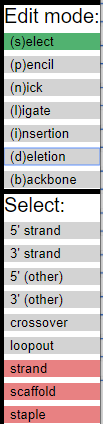
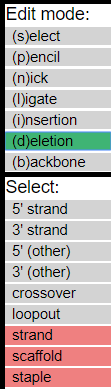
fixed errors in tutorial

diff --git a/tutorial/tutorial.md b/tutorial/tutorial.md
@@ -1,10 +1,10 @@
 # scadnano web interface tutorial
 
-The goal of this tutorial will be to create a design for a 24-helix DNA origami rectangle, with "twist correction". It will look like this when we are done:
+The goal of this tutorial will be to create a design for a 24-helix DNA origami rectangle, with "twist correction". (See [this paper](https://www.nature.com/articles/nchem.1070) for an explanation of twist correction in 2D DNA origami) The design will look like this when we are done:
 
 ![](images/full_design.png)
 
-The completed design is available as a [`.dna` file](https://github.com/UC-Davis-molecular-computing/scadnano/blob/master/web/examples/24_helix_rectangle_twist_corrected.dna).
+The completed design is available as a [`.dna` file](https://github.com/UC-Davis-molecular-computing/scadnano/blob/master/web/examples/24_helix_rectangle_twist_corrected.dna) readable by scadnano.
 
 ## Start
 
@@ -27,12 +27,12 @@ Press the button next to the word "Load" at the top (in Chrome the button says "
 
 ![](images/load_file_button.png)
 
-Choose the file you downloaded.
+Choose the file you downloaded. The design should look similar to the first screenshot in the tutorial.
 
 
 ## Load empty design
 
-Now, to see how to make this design ourselves, let's load an empty design by selecting "empty" from the "Load example" list:
+Now, let's learn how to make this design ourselves. First, load an empty design by selecting "empty" from the "Load example" list:
 
 ![](images/load_empty.png)
 
@@ -60,17 +60,17 @@ You can use the mouse wheel or the two-finger motion on the touchpad to zoom out
 
 ![](images/one_helix_zoomed_out.png)
 
-You can also use the mouse/touchpad to pan the image in the main view (and also the side view). Let's zoom in on helix 0 in both views:
+You can also use the mouse/touchpad to click+drag and translate the image in the main view (and also the side view). Let's zoom in on helix 0 in both views:
 
 ![](images/one_helix_zoomed_in.png)
 
-In scadnano, a "helix" doesn't refer to a literal DNA double helix. It is a 1D set of locations called "offsets" where DNA strands can go. By default the allowed offsets are 0 through 255. This zoom shows only the first 10 offsets of helix 0: 0, 1, 2, 3, 4, 5, 6, 7, 8, 9. When using the graphical interface to scadnano, you don't usually need to think much about these numbers, but they are important if you use the Python scripting library, because it uses these numerical offsets to specify where DNA strands begin and end.
+In scadnano, a "helix" doesn't refer to a literal DNA double helix. It is a 1D set of locations called "offsets" (small white squares with gray borders) where DNA strands *could* go; each DNA base occupies one offset. By default the allowed offsets are 0 through 255. This zoom shows only the first 10 offsets of helix 0: 0, 1, 2, 3, 4, 5, 6, 7, 8, 9. When using the graphical interface to scadnano, you don't usually need to think much about these numbers, but they are important if you use the Python scripting library, because it uses these numerical offsets to specify where DNA strands begin and end.
 
-Each helix has two "rows" of offsets. The top row always contains the strand whose 3' end is to the right; this strand is a "forward" strand. If there is another strand occupying some of the same offsets, it must be moving in the opposite direction, i.e., its 3' end is to the left, a so-called "reverse" strand, and it will be drawn in the second row of the helix's offsets.
+Each helix has two "rows" of offsets. The top row always contains the strand whose 3' end is to the right of its 5' end; this strand is a "forward" strand. If there is another strand occupying some of the same offsets, it must be oriented in the opposite direction, i.e., its 3' end is to the left, a so-called "reverse" strand, and it will be drawn in the second row of the helix's offsets.
 
-For now, just understand that moving to the right in the main view moves "into the screen" in the side view. Thus we can think of these as two 2D projections of the 3D space in which helices live. The side view shows the *x*-*y* place (where moving in the *x* and/or *y* direction moves us between two helices) and the main view shows "something like" the *y*-*z* plane (where moving in the *z* direction moves between DNA bases along a helix). The reason for the quotes around "something like" is that we actually will show every helix in the main view, even those with overlapping *x*-coordinates, so the main view is not exactly a projection.
+For now, just understand that moving to the right in the main view moves "into the screen" in the side view. Thus we can think of these as two 2D projections of the 3D space in which helices live. The side view shows the *x*-*y* plane (where moving in the *x* and/or *y* direction moves us between helices) and the main view shows "something like" the *y*-*z* plane (where moving in the *z* direction moves between DNA bases within a helix). The reason for the quotes around "something like" is that we actually will show every helix in the main view, even those with overlapping *x*-coordinates, so the main view is not formally a projection. See the [documentation](../README.md) for an explanation of how the main view decides helix positions in the main view.
 
-Each helix has given an integer *index*, starting at 0 in the order you create them. If a helix is deleted, all larger indices are decremented to ensure that they are numbered 0, ..., *h* - 1, where *h* is the number of helices. By default, helices are drawn in the main view from top to bottom in order of their index, but this can be changed with a property called *helices_view_order* in the scripting library. It is [currently unsupported](https://github.com/UC-Davis-molecular-computing/scadnano/issues/36) to change the indices of existing helices or to edit *helices_view_order* directly in the web interface, but these will be supported soon.
+Each helix has given an integer *index*, starting at 0 in the order you create them. If a helix is deleted, all larger indices are decremented to ensure that they are numbered 0, ..., *h* - 1, where *h* is the number of helices. By default, helices are drawn in the main view from top to bottom in order of their index, but this can be changed with a property called *helices_view_order* in the scripting library. It is [currently unsupported](https://github.com/UC-Davis-molecular-computing/scadnano/issues/36) to change the indices of existing helices or to edit *helices_view_order* directly in the web interface (the Python scripting library is needed, or direct editing of the `.dna` file), but these edits will be supported soon.
 
 For now, we just have to be careful to add helices in the order we want them to appear in the main view. In both the main view and side view, we'd like them to appear 0,1,...,23 in order from top to bottom, so zoom out in the side view, and click in the side view to create 23 more helices below the first. If you mess up and click somewhere incorrectly, you can press Ctrl+Z to undo the last action (and Ctrl+Shift+Z to redo):
 
@@ -80,7 +80,7 @@ Finally, we need to ensure each helix has enough offsets for all the bases we wi
 
 ![](images/adjust_helix_length.png)
 
-Enter a value of 304 for "maximum offset" and ensure "apply to all helices is checked:
+Enter a value of 304 for "maximum offset" and ensure "apply to all helices" is checked:
 
 ![](images/adjust_helix_length_dialog.png)
 
@@ -97,7 +97,7 @@ Click OK and the helix lengths should increase:
 
 ## Create first substrand of scaffold
 
-Now we show how to create DNA strands. As in cadnano, there's a distinction between a strand and a DNA sequence. Although scadnano allows you to assign DNA sequences to strands at any time, it is best to wait until the strand design is finalized to assign DNA. Many operations attempt to preserve the DNA that has been assigned so far, but many will be undefined (for example, lengthening a strand with DNA) and others may not be what you want (for example, copying an existing strand with DNA assigned and pasting it elsewhere, where it may require a different sequence).
+Now we show how to create DNA strands. As in cadnano, there's a distinction between a strand and a DNA sequence. Although scadnano allows you to assign DNA sequences to strands at any time, it is best to wait until the strand design is finalized to assign a DNA sequence to any strand. Many operations attempt to preserve the DNA that has been assigned so far, but many will be undefined (for example, lengthening a strand) and others may not be what you want (for example, copying an existing strand with DNA assigned and pasting it elsewhere, where it may require a different sequence).
 
 Many DNA origami designs are quite repetitive. Thus, it is helpful to look at a mockup of the design you want and notice which strands are similar. Generally the fastest way to make a design is to identify a few repetitive strands and copy/paste them.
 
@@ -121,7 +121,7 @@ Now, we need to lengthen the strand to cross most of the helix. We could have ma
 
 ![](images/select_mode.png)
 
-Different types of objects can be selectable or not, and some are mutually exclusive. For now, we want to be able to select 5'/3' ends of strands, so click those (see the [README](../README.md) for a description of all the selection options):
+Different types of objects can be selectable or not, and some are mutually exclusive. For now, we want to be able to select 5'/3' ends of strands, so click those under "Select" (see the [README](../README.md) for a description of all the selection options):
 
 ![](images/selecton_5p_3p_strand.png)
 
@@ -137,11 +137,11 @@ Now, zoom out and repeat to lengthen it all the way to (almost) the end of the h
 
 ![](images/selection_box_over_3p_end.png)
 
-Unfortunately, to drag the 3' end, you do have to select it. So it may require zooming in and dragging a few times to get it all the way to the right:
+Unfortunately, to drag the 3' end, you do have to click it. So it may require zooming in and dragging a few times to get it all the way to the right:
 
 ![](images/scaffold_helix_0_full_length.png)
 
-Note that we stop a bit short on either end, because 304&middot;24 = 7296 is a bit too long for M13. Instead, we use length 288 on the helix, which if used on every helix will mean the scaffold will be length 288&middot;24 = 6912.
+Note that we stop a bit short on either  (leaving 8 unoccupied offsets on each side of the helix), because 304&middot;24 = 7296 is a bit too long for M13. Instead, we use length 288 on the helix, which if used on every helix will mean the scaffold will be length 288&middot;24 = 6912.
 
 
 
@@ -153,7 +153,7 @@ First, we copy and paste the strand we just made. To do this, remain in select e
 
 ![](images/strand_selection_mode.png)
 
-Now click the strand and press Ctrl+C (or Cmd+C on Mac) to copy it.
+Now click the strand and press Ctrl+C (the Ctrl key on Windows or Linux behaves the same as the Cmd key on Mac) to copy it.
 
 ![](images/strand_selected.png)
 
@@ -161,13 +161,13 @@ Pressing Ctrl+V and moving the cursor gives you options where to paste the copy.
 
 ![](images/scaffold_substrand_first_copy.png)
 
-Observing the final design and noticing that these two so-called *substrands* are connected by a crossover, at this point you might think we want to add those crossovers. Unfortunately, scadnano does not yet support *circular strands*, and add those crossovers now would create a circular strand.
+Observing the final design and noticing that these two so-called *substrands* are connected by a crossover, at this point you might think we want to add those crossovers. Unfortunately, scadnano does not yet support *circular strands*, but adding those crossovers now would create a circular strand.
 
-Instead, generally it is best to draw all the substrands you want first before connecting them with crossovers. In this case, the substrand we just drew should not span the entire length of the helix, but instead we want two substrands that are adjacent in the middle. To split this substrand into two, select the "nick" edit mode:
+In this case, the substrand we just drew should not span the entire length of the helix, but instead we want two substrands that are adjacent in the middle. To split this substrand into two, select the "nick" edit mode:
 
 ![](images/nick_edit_mode.png)
 
-and click somewhere around the middle of the substrand (we can edit the exact points later):
+and click somewhere around the middle of the substrand (if this doesn't get exactly to the middle; you can edit the exact offsets of the 5'/3' ends later by selecting and dragging them):
 
 ![](images/nick_second_substrand.png)
 
@@ -186,9 +186,9 @@ Now, every other substrand of the scaffold looks just like this, so we can copy/
 
 ## Link substrands into one long scaffold strand
 
-We will want these to be joined by crossovers in the middle, so let's add those now.
+We will want the strands on helices 1 and 2 to be joined by crossovers in the middle, so let's add those now.
 
-Select pencil mode. Click on the 5' end of the left strand on helix 1. A "potential crossover" will be drawn wherever you drag the cursor:
+Select pencil mode and zoom in to the middle. Click on the 5' end of the left strand on helix 1. A "potential crossover" will be drawn wherever you drag the cursor:
 
 ![](images/potential_crossover.png)
 
@@ -196,9 +196,9 @@ Click on the 3' end of the strand directly below to connect them with a crossove
 
 ![](images/crossover.png)
 
-This method enables and 5' end to be connected to any 3' end, as long as they are not already on the same strand. (which would create a [circular strand](https://github.com/UC-Davis-molecular-computing/scadnano/issues/5).)
+This method enables any 5' end to be connected to any 3' end, as long as they are not already on the same strand (which would create a [circular strand](https://github.com/UC-Davis-molecular-computing/scadnano/issues/5).)
 
-For the common case that the 5'/3' ends that you wish to connect with a crossover are at the same offset and on adjacent helices, by putting the cursor over where a crossover would be drawn, a potential crossover appears that can be clicked to add the crossover:
+For the common case that you wish to connect ends at the same offset on adjacent helices, by putting the cursor over where a crossover would be drawn, a potential crossover appears that can be clicked to add the crossover:
 
 ![](images/potential_vertical_crossover.png)
 
@@ -214,7 +214,7 @@ We also want to connect the strands on helix 0 and 1 by crossovers near the edge
 
 Observe that this alternation of "reverse on helix 1, forward on helix 2" continues though helices 3 and 4, and helices 5 and 6, etc.
 
-Switch back to select edit mode. At this point it might be simpler to select strands by zooming out and doing Shift+drag:
+Switch back to *select* edit mode. At this point it might be simpler to select strands by zooming out and doing Shift+drag:
 
 ![](images/shift_drag_select_4_scaffold_substrands.png)
 
@@ -222,11 +222,11 @@ Select all four substrands on helices, and copy/paste them to helices 3 and 4, r
 
 ![](images/paste_scaffold_substrands_to_helices_3_4.png)
 
-Switch to pencil mode, and connect substrands on helices 2 and 3 by crossovers near the edges of the helices:
+Switch to pencil mode, and connect substrands on helices 2 and 3 by crossovers near the outer edges of the helices:
 
 ![](images/scaffold_substrands_helices_0_4_out_crossovers.png)
 
-Now, recursively copy/paste: select all the substrands on helices 1-5 and copy/paste them to helices 6-9 as before. Since this is all the substrands except the topmost substrand, one simple way is to press Ctrl+A to select all strands, 
+Now, recursively copy/paste: select all the substrands on helices 1-5 and copy/paste them to helices 6-9 as before. Since this is all the substrands except the topmost substrand, one fast way is to press Ctrl+A to select all strands:
 
 ![](images/all_substrands_selected.png)
 
@@ -246,7 +246,7 @@ In select mode, copy paste strands from helices 1-8 to helices 9-16, and in penc
 
 ![](images/scaffold_substrands_helices_0_16.png)
 
-The last step should not involve copying more strands. We have only 7 helices worth of strands to fill, and since they start with an odd helix (17), we want to copy strands starting at an odd helix going for 6 more helices. So copy the substrands on helices 1-7 (or any consecutive helices starting with an odd index) and copy/paste them to helices 17-23. 
+Now, we have only 7 helices worth of strands to fill, and since they start with an odd helix (17), we want to copy strands starting at an odd helix going for 6 more helices. So we will copy the substrands on helices 1-7 (or any consecutive helices starting with an odd index) and copy/paste them to helices 17-23. 
 
 To do this, first temporarily disconnect the inner crossovers between helices 7 and 8 by changing to select edit, then pick "crossover" under "select":
 
@@ -260,25 +260,25 @@ Press the delete key to delete them:
 
 ![](images/inner_crossovers_disconnected.png)
 
-Now, enabling strand selection, copy the strands on helices 1-7, and paste them to helices 17-23:
+Now, enabling *strand* under "Select", copy the strands on helices 1-7, and paste them to helices 17-23:
 
 ![](images/all_scaffold_substrands_almost_crossover_connected.png)
 
-Finally, in pencil mode add the final remaining crossovers:
+Finally, in pencil mode add the final remaining crossovers (outer crossovers between helices 0-1, 16-17, and inner crossovers between helices 7-8):
 
 ![](images/full_scaffold.png)
 
-The above steps could have been simplified somewhat by waiting until the substrands were all drawn to add the crossovers, but then all 36 crossovers would have to be added manually. The total time in each case is probably comparable; it's your preference how much to try to plan ahead so that the copied substructures are more complete.
+The above steps could have been simplified somewhat by waiting until the substrands were all drawn to add the crossovers, but then all 36 crossovers would have to be added manually. The total time in each case is probably comparable. It's your preference how much to try to plan ahead so that the copied substructures are more complete.
 
 
 
 ## add staples
 
-**Note:** Due to a mistake, I forgot to add a few crossovers in the scaffold before adding the staples, so the scaffold below is missing a few crossovers that it should have. The scaffold should look like it does in the previous image. 
+**Note:** Due to a mistake, I forgot to add a few crossovers in the scaffold before adding the staples, so the scaffold below is missing a few crossovers that it should have. The scaffold you are working with should look like it does in the previous image, not like it does in several images below. I'll correct the images below eventually.
 
 ### edge staples
 
-There aren't too many types of staples in a standard DNA origami rectangle.
+There aren't too many "shapes" of staples in a standard DNA origami rectangle. We follow the same strategy above of manually drawing one shape of staple and copy/pasting it to get the rest.
 
 First, we add an edge staple by drawing a reverse substrand on helix 0 and a forward substrand on helix 1, both in the upper-left of the scaffold:
 
@@ -292,16 +292,20 @@ In staple select mode, copy and paste it to make a second edge staple:
 
 ![](images/two_left_edge_staples.png)
 
-Recurisvely copy paste until there are 16 edge staples:
+Recurisvely copy/paste until there are 12 edge staples. In other words, copy/paste the current 2 edge staples to make 4:
 
 ![](images/four_edge_staples.png)
 
+Then copy/paste those 4 to make 8:
+
 ![](images/eight_edge_staples.png)
+
+Then paste the same 4 again to make 12:
 
 ![](images/twelve_edge_staples.png)
 
 
-Repeat to make the right edge staples:
+Follow the same strategy to make the right edge staples:
 
 ![](images/all_edge_staples.png)
 
@@ -323,11 +327,11 @@ Recursively copy-paste to get the rest:
 
 ### inner staples
 
-Most of the staples in the origami look like the one of the right here. Draw this staple on helices 0, 1, 2:
+Draw this staple on helices 0, 1, 2:
 
 ![](images/first_inner_staple.png)
 
-Recursively copy/paste it to fill in the rest of the "column" (width-16 region):
+Most of the staples in the origami look like this. Recursively copy/paste it to fill in the rest of the "column" (width-16 region):
 
 ![](images/first_column_inner_staples.png)
 
@@ -371,13 +375,13 @@ This would only take a few minutes, though it would be quite tedious. Furthermor
 
 ### Adding deletions using a Python script
 
-This is a good opportunity to show how the Python scripting library can be used for tasks such as this.
+This is a good opportunity to show how the Python scripting library can be used for repetitive tasks such as this.
 
 First, follow the [installation instructions](https://github.com/UC-Davis-molecular-computing/scadnano-python-package).
 
-Save the file using the "Save" button. We assume it named `24_helix_rectangle.dna`.
+Save the file using the "Save" button. Name it `24_helix_rectangle.dna`.
 
-Next, put a file named `add_deletions_to_24_helix_rectangle.py` in the same folder, and give the file this content:
+Next, put a Python file named `add_deletions_to_24_helix_rectangle.py` in the same folder, with this content:
 
 ```python
 import scadnano as sc
@@ -391,7 +395,7 @@ if __name__ == '__main__':
     design.write_scadnano_file(filename='24_helix_rectangle_twist_corrected.dna')
 ```
 
-If you run the above code, you it will output the same design into the file `24_helix_rectangle_twist_corrected.dna` that was in `24_helix_rectangle.dna`. Our goal now is to add the appropriate deletions in the script before writing the output design.
+If you run the above code, it will simply read the design from `24_helix_rectangle.dna` and write the same design to `24_helix_rectangle_twist_corrected.dna`. Our goal now is to add the appropriate deletions in the script before writing the output.
 
 We can simply loop over the helices and the offsets we need to do this. The three new lines are marked with `###`
 
@@ -410,7 +414,7 @@ if __name__ == '__main__':
     design.write_scadnano_file(filename='24_helix_rectangle_twist_corrected.dna')
 ```
 
-This code will only work for this particular design. One could imagine a more general algorithm that works on arbitrary DNA origami rectangles, making some assumptions about how they are designed. But this code is fairly easy to write for just this one specific design.
+This code will only work for this particular design. One could imagine a more general algorithm that works on arbitrary DNA origami rectangles, making some assumptions about how they are designed. But this code is fairly easy to write for just this one specific design: we want deletions on every helix (outer `for` loop), starting after offset 27 and incrementing every 48 bases until the end (inner `for` loop).
 
 If we now load the file `24_helix_rectangle_twist_corrected.dna`, we see this:
 
@@ -426,7 +430,80 @@ Finally, we complete the design by assigning a DNA sequence to the scaffold. Thi
 Paste this string into the text box:
 
 ```
-TTCCCTTCCTTTCTCGCCACGTTCGCCGGCTTTCCCCGTCAAGCTCTAAATCGGGGGCTCCCTTTAGGGTTCCGATTTAGTGCTTTACGGCACCTCGACCCCAAAAAACTTGATTTGGGTGATGGTTCACGTAGTGGGCCATCGCCCTGATAGACGGTTTTTCGCCCTTTGACGTTGGAGTCCACGTTCTTTAATAGTGGACTCTTGTTCCAAACTGGAACAACACTCAACCCTATCTCGGGCTATTCTTTTGATTTATAAGGGATTTTGCCGATTTCGGAACCACCATCAAACAGGATTTTCGCCTGCTGGGGCAAACCAGCGTGGACCGCTTGCTGCAACTCTCTCAGGGCCAGGCGGTGAAGGGCAATCAGCTGTTGCCCGTCTCACTGGTGAAAAGAAAAACCACCCTGGCGCCCAATACGCAAACCGCCTCTCCCCGCGCGTTGGCCGATTCATTAATGCAGCTGGCACGACAGGTTTCCCGACTGGAAAGCGGGCAGTGAGCGCAACGCAATTAATGTGAGTTAGCTCACTCATTAGGCACCCCAGGCTTTACACTTTATGCTTCCGGCTCGTATGTTGTGTGGAATTGTGAGCGGATAACAATTTCACACAGGAAACAGCTATGACCATGATTACGAATTCGAGCTCGGTACCCGGGGATCCTCTAGAGTCGACCTGCAGGCATGCAAGCTTGGCACTGGCCGTCGTTTTACAACGTCGTGACTGGGAAAACCCTGGCGTTACCCAACTTAATCGCCTTGCAGCACATCCCCCTTTCGCCAGCTGGCGTAATAGCGAAGAGGCCCGCACCGATCGCCCTTCCCAACAGTTGCGCAGCCTGAATGGCGAATGGCGCTTTGCCTGGTTTCCGGCACCAGAAGCGGTGCCGGAAAGCTGGCTGGAGTGCGATCTTCCTGAGGCCGATACTGTCGTCGTCCCCTCAAACTGGCAGATGCACGGTTACGATGCGCCCATCTACACCAACGTGACCTATCCCATTACGGTCAATCCGCCGTTTGTTCCCACGGAGAATCCGACGGGTTGTTACTCGCTCACATTTAATGTTGATGAAAGCTGGCTACAGGAAGGCCAGACGCGAATTATTTTTGATGGCGTTCCTATTGGTTAAAAAATGAGCTGATTTAACAAAAATTTAATGCGAATTTTAACAAAATATTAACGTTTACAATTTAAATATTTGCTTATACAATCTTCCTGTTTTTGGGGCTTTTCTGATTATCAACCGGGGTACATATGATTGACATGCTAGTTTTACGATTACCGTTCATCGATTCTCTTGTTTGCTCCAGACTCTCAGGCAATGACCTGATAGCCTTTGTAGATCTCTCAAAAATAGCTACCCTCTCCGGCATTAATTTATCAGCTAGAACGGTTGAATATCATATTGATGGTGATTTGACTGTCTCCGGCCTTTCTCACCCTTTTGAATCTTTACCTACACATTACTCAGGCATTGCATTTAAAATATATGAGGGTTCTAAAAATTTTTATCCTTGCGTTGAAATAAAGGCTTCTCCCGCAAAAGTATTACAGGGTCATAATGTTTTTGGTACAACCGATTTAGCTTTATGCTCTGAGGCTTTATTGCTTAATTTTGCTAATTCTTTGCCTTGCCTGTATGATTTATTGGATGTTAATGCTACTACTATTAGTAGAATTGATGCCACCTTTTCAGCTCGCGCCCCAAATGAAAATATAGCTAAACAGGTTATTGACCATTTGCGAAATGTATCTAATGGTCAAACTAAATCTACTCGTTCGCAGAATTGGGAATCAACTGTTATATGGAATGAAACTTCCAGACACCGTACTTTAGTTGCATATTTAAAACATGTTGAGCTACAGCATTATATTCAGCAATTAAGCTCTAAGCCATCCGCAAAAATGACCTCTTATCAAAAGGAGCAATTAAAGGTACTCTCTAATCCTGACCTGTTGGAGTTTGCTTCCGGTCTGGTTCGCTTTGAAGCTCGAATTAAAACGCGATATTTGAAGTCTTTCGGGCTTCCTCTTAATCTTTTTGATGCAATCCGCTTTGCTTCTGACTATAATAGTCAGGGTAAAGACCTGATTTTTGATTTATGGTCATTCTCGTTTTCTGAACTGTTTAAAGCATTTGAGGGGGATTCAATGAATATTTATGACGATTCCGCAGTATTGGACGCTATCCAGTCTAAACATTTTACTATTACCCCCTCTGGCAAAACTTCTTTTGCAAAAGCCTCTCGCTATTTTGGTTTTTATCGTCGTCTGGTAAACGAGGGTTATGATAGTGTTGCTCTTACTATGCCTCGTAATTCCTTTTGGCGTTATGTATCTGCATTAGTTGAATGTGGTATTCCTAAATCTCAACTGATGAATCTTTCTACCTGTAATAATGTTGTTCCGTTAGTTCGTTTTATTAACGTAGATTTTTCTTCCCAACGTCCTGACTGGTATAATGAGCCAGTTCTTAAAATCGCATAAGGTAATTCACAATGATTAAAGTTGAAATTAAACCATCTCAAGCCCAATTTACTACTCGTTCTGGTGTTTCTCGTCAGGGCAAGCCTTATTCACTGAATGAGCAGCTTTGTTACGTTGATTTGGGTAATGAATATCCGGTTCTTGTCAAGATTACTCTTGATGAAGGTCAGCCAGCCTATGCGCCTGGTCTGTACACCGTTCATCTGTCCTCTTTCAAAGTTGGTCAGTTCGGTTCCCTTATGATTGACCGTCTGCGCCTCGTTCCGGCTAAGTAACATGGAGCAGGTCGCGGATTTCGACACAATTTATCAGGCGATGATACAAATCTCCGTTGTACTTTGTTTCGCGCTTGGTATAATCGCTGGGGGTCAAAGATGAGTGTTTTAGTGTATTCTTTTGCCTCTTTCGTTTTAGGTTGGTGCCTTCGTAGTGGCATTACGTATTTTACCCGTTTAATGGAAACTTCCTCATGAAAAAGTCTTTAGTCCTCAAAGCCTCTGTAGCCGTTGCTACCCTCGTTCCGATGCTGTCTTTCGCTGCTGAGGGTGACGATCCCGCAAAAGCGGCCTTTAACTCCCTGCAAGCCTCAGCGACCGAATATATCGGTTATGCGTGGGCGATGGTTGTTGTCATTGTCGGCGCAACTATCGGTATCAAGCTGTTTAAGAAATTCACCTCGAAAGCAAGCTGATAAACCGATACAATTAAAGGCTCCTTTTGGAGCCTTTTTTTTGGAGATTTTCAACGTGAAAAAATTATTATTCGCAATTCCTTTAGTTGTTCCTTTCTATTCTCACTCCGCTGAAACTGTTGAAAGTTGTTTAGCAAAATCCCATACAGAAAATTCATTTACTAACGTCTGGAAAGACGACAAAACTTTAGATCGTTACGCTAACTATGAGGGCTGTCTGTGGAATGCTACAGGCGTTGTAGTTTGTACTGGTGACGAAACTCAGTGTTACGGTACATGGGTTCCTATTGGGCTTGCTATCCCTGAAAATGAGGGTGGTGGCTCTGAGGGTGGCGGTTCTGAGGGTGGCGGTTCTGAGGGTGGCGGTACTAAACCTCCTGAGTACGGTGATACACCTATTCCGGGCTATACTTATATCAACCCTCTCGACGGCACTTATCCGCCTGGTACTGAGCAAAACCCCGCTAATCCTAATCCTTCTCTTGAGGAGTCTCAGCCTCTTAATACTTTCATGTTTCAGAATAATAGGTTCCGAAATAGGCAGGGGGCATTAACTGTTTATACGGGCACTGTTACTCAAGGCACTGACCCCGTTAAAACTTATTACCAGTACACTCCTGTATCATCAAAAGCCATGTATGACGCTTACTGGAACGGTAAATTCAGAGACTGCGCTTTCCATTCTGGCTTTAATGAGGATTTATTTGTTTGTGAATATCAAGGCCAATCGTCTGACCTGCCTCAACCTCCTGTCAATGCTGGCGGCGGCTCTGGTGGTGGTTCTGGTGGCGGCTCTGAGGGTGGTGGCTCTGAGGGTGGCGGTTCTGAGGGTGGCGGCTCTGAGGGAGGCGGTTCCGGTGGTGGCTCTGGTTCCGGTGATTTTGATTATGAAAAGATGGCAAACGCTAATAAGGGGGCTATGACCGAAAATGCCGATGAAAACGCGCTACAGTCTGACGCTAAAGGCAAACTTGATTCTGTCGCTACTGATTACGGTGCTGCTATCGATGGTTTCATTGGTGACGTTTCCGGCCTTGCTAATGGTAATGGTGCTACTGGTGATTTTGCTGGCTCTAATTCCCAAATGGCTCAAGTCGGTGACGGTGATAATTCACCTTTAATGAATAATTTCCGTCAATATTTACCTTCCCTCCCTCAATCGGTTGAATGTCGCCCTTTTGTCTTTGGCGCTGGTAAACCATATGAATTTTCTATTGATTGTGACAAAATAAACTTATTCCGTGGTGTCTTTGCGTTTCTTTTATATGTTGCCACCTTTATGTATGTATTTTCTACGTTTGCTAACATACTGCGTAATAAGGAGTCTTAATCATGCCAGTTCTTTTGGGTATTCCGTTATTATTGCGTTTCCTCGGTTTCCTTCTGGTAACTTTGTTCGGCTATCTGCTTACTTTTCTTAAAAAGGGCTTCGGTAAGATAGCTATTGCTATTTCATTGTTTCTTGCTCTTATTATTGGGCTTAACTCAATTCTTGTGGGTTATCTCTCTGATATTAGCGCTCAATTACCCTCTGACTTTGTTCAGGGTGTTCAGTTAATTCTCCCGTCTAATGCGCTTCCCTGTTTTTATGTTATTCTCTCTGTAAAGGCTGCTATTTTCATTTTTGACGTTAAACAAAAAATCGTTTCTTATTTGGATTGGGATAAATAATATGGCTGTTTATTTTGTAACTGGCAAATTAGGCTCTGGAAAGACGCTCGTTAGCGTTGGTAAGATTCAGGATAAAATTGTAGCTGGGTGCAAAATAGCAACTAATCTTGATTTAAGGCTTCAAAACCTCCCGCAAGTCGGGAGGTTCGCTAAAACGCCTCGCGTTCTTAGAATACCGGATAAGCCTTCTATATCTGATTTGCTTGCTATTGGGCGCGGTAATGATTCCTACGATGAAAATAAAAACGGCTTGCTTGTTCTCGATGAGTGCGGTACTTGGTTTAATACCCGTTCTTGGAATGATAAGGAAAGACAGCCGATTATTGATTGGTTTCTACATGCTCGTAAATTAGGATGGGATATTATTTTTCTTGTTCAGGACTTATCTATTGTTGATAAACAGGCGCGTTCTGCATTAGCTGAACATGTTGTTTATTGTCGTCGTCTGGACAGAATTACTTTACCTTTTGTCGGTACTTTATATTCTCTTATTACTGGCTCGAAAATGCCTCTGCCTAAATTACATGTTGGCGTTGTTAAATATGGCGATTCTCAATTAAGCCCTACTGTTGAGCGTTGGCTTTATACTGGTAAGAATTTGTATAACGCATATGATACTAAACAGGCTTTTTCTAGTAATTATGATTCCGGTGTTTATTCTTATTTAACGCCTTATTTATCACACGGTCGGTATTTCAAACCATTAAATTTAGGTCAGAAGATGAAATTAACTAAAATATATTTGAAAAAGTTTTCTCGCGTTCTTTGTCTTGCGATTGGATTTGCATCAGCATTTACATATAGTTATATAACCCAACCTAAGCCGGAGGTTAAAAAGGTAGTCTCTCAGACCTATGATTTTGATAAATTCACTATTGACTCTTCTCAGCGTCTTAATCTAAGCTATCGCTATGTTTTCAAGGATTCTAAGGGAAAATTAATTAATAGCGACGATTTACAGAAGCAAGGTTATTCACTCACATATATTGATTTATGTACTGTTTCCATTAAAAAAGGTAATTCAAATGAAATTGTTAAATGTAATTAATTTTGTTTTCTTGATGTTTGTTTCATCATCTTCTTTTGCTCAGGTAATTGAAATGAATAATTCGCCTCTGCGCGATTTTGTAACTTGGTATTCAAAGCAATCAGGCGAATCCGTTATTGTTTCTCCCGATGTAAAAGGTACTGTTACTGTATATTCATCTGACGTTAAACCTGAAAATCTACGCAATTTCTTTATTTCTGTTTTACGTGCAAATAATTTTGATATGGTAGGTTCTAACCCTTCCATTATTCAGAAGTATAATCCAAACAATCAGGATTATATTGATGAATTGCCATCATCTGATAATCAGGAATATGATGATAATTCCGCTCCTTCTGGTGGTTTCTTTGTTCCGCAAAATGATAATGTTACTCAAACTTTTAAAATTAATAACGTTCGGGCAAAGGATTTAATACGAGTTGTCGAATTGTTTGTAAAGTCTAATACTTCTAAATCCTCAAATGTATTATCTATTGACGGCTCTAATCTATTAGTTGTTAGTGCTCCTAAAGATATTTTAGATAACCTTCCTCAATTCCTTTCAACTGTTGATTTGCCAACTGACCAGATATTGATTGAGGGTTTGATATTTGAGGTTCAGCAAGGTGATGCTTTAGATTTTTCATTTGCTGCTGGCTCTCAGCGTGGCACTGTTGCAGGCGGTGTTAATACTGACCGCCTCACCTCTGTTTTATCTTCTGCTGGTGGTTCGTTCGGTATTTTTAATGGCGATGTTTTAGGGCTATCAGTTCGCGCATTAAAGACTAATAGCCATTCAAAAATATTGTCTGTGCCACGTATTCTTACGCTTTCAGGTCAGAAGGGTTCTATCTCTGTTGGCCAGAATGTCCCTTTTATTACTGGTCGTGTGACTGGTGAATCTGCCAATGTAAATAATCCATTTCAGACGATTGAGCGTCAAAATGTAGGTATTTCCATGAGCGTTTTTCCTGTTGCAATGGCTGGCGGTAATATTGTTCTGGATATTACCAGCAAGGCCGATAGTTTGAGTTCTTCTACTCAGGCAAGTGATGTTATTACTAATCAAAGAAGTATTGCTACAACGGTTAATTTGCGTGATGGACAGACTCTTTTACTCGGTGGCCTCACTGATTATAAAAACACTTCTCAGGATTCTGGCGTACCGTTCCTGTCTAAAATCCCTTTAATCGGCCTCCTGTTTAGCTCCCGCTCTGATTCTAACGAGGAAAGCACGTTATACGTGCTCGTCAAAGCAACCATAGTACGCGCCCTGTAGCGGCGCATTAAGCGCGGCGGGTGTGGTGGTTACGCGCAGCGTGACCGCTACACTTGCCAGCGCCCTAGCGCCCGCTCCTTTCGCTTTC
+TTCCCTTCCTTTCTCGCCACGTTCGCCGGCTTTCCCCGTCAAGCTCTAAATCGGGGGCTCCCTTTAGGGTTCCGATTTAGTGCTTTACGGCACCTCGAC
+CCCAAAAAACTTGATTTGGGTGATGGTTCACGTAGTGGGCCATCGCCCTGATAGACGGTTTTTCGCCCTTTGACGTTGGAGTCCACGTTCTTTAATAGT
+GGACTCTTGTTCCAAACTGGAACAACACTCAACCCTATCTCGGGCTATTCTTTTGATTTATAAGGGATTTTGCCGATTTCGGAACCACCATCAAACAGG
+ATTTTCGCCTGCTGGGGCAAACCAGCGTGGACCGCTTGCTGCAACTCTCTCAGGGCCAGGCGGTGAAGGGCAATCAGCTGTTGCCCGTCTCACTGGTGA
+AAAGAAAAACCACCCTGGCGCCCAATACGCAAACCGCCTCTCCCCGCGCGTTGGCCGATTCATTAATGCAGCTGGCACGACAGGTTTCCCGACTGGAAA
+GCGGGCAGTGAGCGCAACGCAATTAATGTGAGTTAGCTCACTCATTAGGCACCCCAGGCTTTACACTTTATGCTTCCGGCTCGTATGTTGTGTGGAATT
+GTGAGCGGATAACAATTTCACACAGGAAACAGCTATGACCATGATTACGAATTCGAGCTCGGTACCCGGGGATCCTCTAGAGTCGACCTGCAGGCATGC
+AAGCTTGGCACTGGCCGTCGTTTTACAACGTCGTGACTGGGAAAACCCTGGCGTTACCCAACTTAATCGCCTTGCAGCACATCCCCCTTTCGCCAGCTG
+GCGTAATAGCGAAGAGGCCCGCACCGATCGCCCTTCCCAACAGTTGCGCAGCCTGAATGGCGAATGGCGCTTTGCCTGGTTTCCGGCACCAGAAGCGGT
+GCCGGAAAGCTGGCTGGAGTGCGATCTTCCTGAGGCCGATACTGTCGTCGTCCCCTCAAACTGGCAGATGCACGGTTACGATGCGCCCATCTACACCAA
+CGTGACCTATCCCATTACGGTCAATCCGCCGTTTGTTCCCACGGAGAATCCGACGGGTTGTTACTCGCTCACATTTAATGTTGATGAAAGCTGGCTACA
+GGAAGGCCAGACGCGAATTATTTTTGATGGCGTTCCTATTGGTTAAAAAATGAGCTGATTTAACAAAAATTTAATGCGAATTTTAACAAAATATTAACG
+TTTACAATTTAAATATTTGCTTATACAATCTTCCTGTTTTTGGGGCTTTTCTGATTATCAACCGGGGTACATATGATTGACATGCTAGTTTTACGATTA
+CCGTTCATCGATTCTCTTGTTTGCTCCAGACTCTCAGGCAATGACCTGATAGCCTTTGTAGATCTCTCAAAAATAGCTACCCTCTCCGGCATTAATTTA
+TCAGCTAGAACGGTTGAATATCATATTGATGGTGATTTGACTGTCTCCGGCCTTTCTCACCCTTTTGAATCTTTACCTACACATTACTCAGGCATTGCA
+TTTAAAATATATGAGGGTTCTAAAAATTTTTATCCTTGCGTTGAAATAAAGGCTTCTCCCGCAAAAGTATTACAGGGTCATAATGTTTTTGGTACAACC
+GATTTAGCTTTATGCTCTGAGGCTTTATTGCTTAATTTTGCTAATTCTTTGCCTTGCCTGTATGATTTATTGGATGTTAATGCTACTACTATTAGTAGA
+ATTGATGCCACCTTTTCAGCTCGCGCCCCAAATGAAAATATAGCTAAACAGGTTATTGACCATTTGCGAAATGTATCTAATGGTCAAACTAAATCTACT
+CGTTCGCAGAATTGGGAATCAACTGTTATATGGAATGAAACTTCCAGACACCGTACTTTAGTTGCATATTTAAAACATGTTGAGCTACAGCATTATATT
+CAGCAATTAAGCTCTAAGCCATCCGCAAAAATGACCTCTTATCAAAAGGAGCAATTAAAGGTACTCTCTAATCCTGACCTGTTGGAGTTTGCTTCCGGT
+CTGGTTCGCTTTGAAGCTCGAATTAAAACGCGATATTTGAAGTCTTTCGGGCTTCCTCTTAATCTTTTTGATGCAATCCGCTTTGCTTCTGACTATAAT
+AGTCAGGGTAAAGACCTGATTTTTGATTTATGGTCATTCTCGTTTTCTGAACTGTTTAAAGCATTTGAGGGGGATTCAATGAATATTTATGACGATTCC
+GCAGTATTGGACGCTATCCAGTCTAAACATTTTACTATTACCCCCTCTGGCAAAACTTCTTTTGCAAAAGCCTCTCGCTATTTTGGTTTTTATCGTCGT
+CTGGTAAACGAGGGTTATGATAGTGTTGCTCTTACTATGCCTCGTAATTCCTTTTGGCGTTATGTATCTGCATTAGTTGAATGTGGTATTCCTAAATCT
+CAACTGATGAATCTTTCTACCTGTAATAATGTTGTTCCGTTAGTTCGTTTTATTAACGTAGATTTTTCTTCCCAACGTCCTGACTGGTATAATGAGCCA
+GTTCTTAAAATCGCATAAGGTAATTCACAATGATTAAAGTTGAAATTAAACCATCTCAAGCCCAATTTACTACTCGTTCTGGTGTTTCTCGTCAGGGCA
+AGCCTTATTCACTGAATGAGCAGCTTTGTTACGTTGATTTGGGTAATGAATATCCGGTTCTTGTCAAGATTACTCTTGATGAAGGTCAGCCAGCCTATG
+CGCCTGGTCTGTACACCGTTCATCTGTCCTCTTTCAAAGTTGGTCAGTTCGGTTCCCTTATGATTGACCGTCTGCGCCTCGTTCCGGCTAAGTAACATG
+GAGCAGGTCGCGGATTTCGACACAATTTATCAGGCGATGATACAAATCTCCGTTGTACTTTGTTTCGCGCTTGGTATAATCGCTGGGGGTCAAAGATGA
+GTGTTTTAGTGTATTCTTTTGCCTCTTTCGTTTTAGGTTGGTGCCTTCGTAGTGGCATTACGTATTTTACCCGTTTAATGGAAACTTCCTCATGAAAAA
+GTCTTTAGTCCTCAAAGCCTCTGTAGCCGTTGCTACCCTCGTTCCGATGCTGTCTTTCGCTGCTGAGGGTGACGATCCCGCAAAAGCGGCCTTTAACTC
+CCTGCAAGCCTCAGCGACCGAATATATCGGTTATGCGTGGGCGATGGTTGTTGTCATTGTCGGCGCAACTATCGGTATCAAGCTGTTTAAGAAATTCAC
+CTCGAAAGCAAGCTGATAAACCGATACAATTAAAGGCTCCTTTTGGAGCCTTTTTTTTGGAGATTTTCAACGTGAAAAAATTATTATTCGCAATTCCTT
+TAGTTGTTCCTTTCTATTCTCACTCCGCTGAAACTGTTGAAAGTTGTTTAGCAAAATCCCATACAGAAAATTCATTTACTAACGTCTGGAAAGACGACA
+AAACTTTAGATCGTTACGCTAACTATGAGGGCTGTCTGTGGAATGCTACAGGCGTTGTAGTTTGTACTGGTGACGAAACTCAGTGTTACGGTACATGGG
+TTCCTATTGGGCTTGCTATCCCTGAAAATGAGGGTGGTGGCTCTGAGGGTGGCGGTTCTGAGGGTGGCGGTTCTGAGGGTGGCGGTACTAAACCTCCTG
+AGTACGGTGATACACCTATTCCGGGCTATACTTATATCAACCCTCTCGACGGCACTTATCCGCCTGGTACTGAGCAAAACCCCGCTAATCCTAATCCTT
+CTCTTGAGGAGTCTCAGCCTCTTAATACTTTCATGTTTCAGAATAATAGGTTCCGAAATAGGCAGGGGGCATTAACTGTTTATACGGGCACTGTTACTC
+AAGGCACTGACCCCGTTAAAACTTATTACCAGTACACTCCTGTATCATCAAAAGCCATGTATGACGCTTACTGGAACGGTAAATTCAGAGACTGCGCTT
+TCCATTCTGGCTTTAATGAGGATTTATTTGTTTGTGAATATCAAGGCCAATCGTCTGACCTGCCTCAACCTCCTGTCAATGCTGGCGGCGGCTCTGGTG
+GTGGTTCTGGTGGCGGCTCTGAGGGTGGTGGCTCTGAGGGTGGCGGTTCTGAGGGTGGCGGCTCTGAGGGAGGCGGTTCCGGTGGTGGCTCTGGTTCCG
+GTGATTTTGATTATGAAAAGATGGCAAACGCTAATAAGGGGGCTATGACCGAAAATGCCGATGAAAACGCGCTACAGTCTGACGCTAAAGGCAAACTTG
+ATTCTGTCGCTACTGATTACGGTGCTGCTATCGATGGTTTCATTGGTGACGTTTCCGGCCTTGCTAATGGTAATGGTGCTACTGGTGATTTTGCTGGCT
+CTAATTCCCAAATGGCTCAAGTCGGTGACGGTGATAATTCACCTTTAATGAATAATTTCCGTCAATATTTACCTTCCCTCCCTCAATCGGTTGAATGTC
+GCCCTTTTGTCTTTGGCGCTGGTAAACCATATGAATTTTCTATTGATTGTGACAAAATAAACTTATTCCGTGGTGTCTTTGCGTTTCTTTTATATGTTG
+CCACCTTTATGTATGTATTTTCTACGTTTGCTAACATACTGCGTAATAAGGAGTCTTAATCATGCCAGTTCTTTTGGGTATTCCGTTATTATTGCGTTT
+CCTCGGTTTCCTTCTGGTAACTTTGTTCGGCTATCTGCTTACTTTTCTTAAAAAGGGCTTCGGTAAGATAGCTATTGCTATTTCATTGTTTCTTGCTCT
+TATTATTGGGCTTAACTCAATTCTTGTGGGTTATCTCTCTGATATTAGCGCTCAATTACCCTCTGACTTTGTTCAGGGTGTTCAGTTAATTCTCCCGTC
+TAATGCGCTTCCCTGTTTTTATGTTATTCTCTCTGTAAAGGCTGCTATTTTCATTTTTGACGTTAAACAAAAAATCGTTTCTTATTTGGATTGGGATAA
+ATAATATGGCTGTTTATTTTGTAACTGGCAAATTAGGCTCTGGAAAGACGCTCGTTAGCGTTGGTAAGATTCAGGATAAAATTGTAGCTGGGTGCAAAA
+TAGCAACTAATCTTGATTTAAGGCTTCAAAACCTCCCGCAAGTCGGGAGGTTCGCTAAAACGCCTCGCGTTCTTAGAATACCGGATAAGCCTTCTATAT
+CTGATTTGCTTGCTATTGGGCGCGGTAATGATTCCTACGATGAAAATAAAAACGGCTTGCTTGTTCTCGATGAGTGCGGTACTTGGTTTAATACCCGTT
+CTTGGAATGATAAGGAAAGACAGCCGATTATTGATTGGTTTCTACATGCTCGTAAATTAGGATGGGATATTATTTTTCTTGTTCAGGACTTATCTATTG
+TTGATAAACAGGCGCGTTCTGCATTAGCTGAACATGTTGTTTATTGTCGTCGTCTGGACAGAATTACTTTACCTTTTGTCGGTACTTTATATTCTCTTA
+TTACTGGCTCGAAAATGCCTCTGCCTAAATTACATGTTGGCGTTGTTAAATATGGCGATTCTCAATTAAGCCCTACTGTTGAGCGTTGGCTTTATACTG
+GTAAGAATTTGTATAACGCATATGATACTAAACAGGCTTTTTCTAGTAATTATGATTCCGGTGTTTATTCTTATTTAACGCCTTATTTATCACACGGTC
+GGTATTTCAAACCATTAAATTTAGGTCAGAAGATGAAATTAACTAAAATATATTTGAAAAAGTTTTCTCGCGTTCTTTGTCTTGCGATTGGATTTGCAT
+CAGCATTTACATATAGTTATATAACCCAACCTAAGCCGGAGGTTAAAAAGGTAGTCTCTCAGACCTATGATTTTGATAAATTCACTATTGACTCTTCTC
+AGCGTCTTAATCTAAGCTATCGCTATGTTTTCAAGGATTCTAAGGGAAAATTAATTAATAGCGACGATTTACAGAAGCAAGGTTATTCACTCACATATA
+TTGATTTATGTACTGTTTCCATTAAAAAAGGTAATTCAAATGAAATTGTTAAATGTAATTAATTTTGTTTTCTTGATGTTTGTTTCATCATCTTCTTTT
+GCTCAGGTAATTGAAATGAATAATTCGCCTCTGCGCGATTTTGTAACTTGGTATTCAAAGCAATCAGGCGAATCCGTTATTGTTTCTCCCGATGTAAAA
+GGTACTGTTACTGTATATTCATCTGACGTTAAACCTGAAAATCTACGCAATTTCTTTATTTCTGTTTTACGTGCAAATAATTTTGATATGGTAGGTTCT
+AACCCTTCCATTATTCAGAAGTATAATCCAAACAATCAGGATTATATTGATGAATTGCCATCATCTGATAATCAGGAATATGATGATAATTCCGCTCCT
+TCTGGTGGTTTCTTTGTTCCGCAAAATGATAATGTTACTCAAACTTTTAAAATTAATAACGTTCGGGCAAAGGATTTAATACGAGTTGTCGAATTGTTT
+GTAAAGTCTAATACTTCTAAATCCTCAAATGTATTATCTATTGACGGCTCTAATCTATTAGTTGTTAGTGCTCCTAAAGATATTTTAGATAACCTTCCT
+CAATTCCTTTCAACTGTTGATTTGCCAACTGACCAGATATTGATTGAGGGTTTGATATTTGAGGTTCAGCAAGGTGATGCTTTAGATTTTTCATTTGCT
+GCTGGCTCTCAGCGTGGCACTGTTGCAGGCGGTGTTAATACTGACCGCCTCACCTCTGTTTTATCTTCTGCTGGTGGTTCGTTCGGTATTTTTAATGGC
+GATGTTTTAGGGCTATCAGTTCGCGCATTAAAGACTAATAGCCATTCAAAAATATTGTCTGTGCCACGTATTCTTACGCTTTCAGGTCAGAAGGGTTCT
+ATCTCTGTTGGCCAGAATGTCCCTTTTATTACTGGTCGTGTGACTGGTGAATCTGCCAATGTAAATAATCCATTTCAGACGATTGAGCGTCAAAATGTA
+GGTATTTCCATGAGCGTTTTTCCTGTTGCAATGGCTGGCGGTAATATTGTTCTGGATATTACCAGCAAGGCCGATAGTTTGAGTTCTTCTACTCAGGCA
+AGTGATGTTATTACTAATCAAAGAAGTATTGCTACAACGGTTAATTTGCGTGATGGACAGACTCTTTTACTCGGTGGCCTCACTGATTATAAAAACACT
+TCTCAGGATTCTGGCGTACCGTTCCTGTCTAAAATCCCTTTAATCGGCCTCCTGTTTAGCTCCCGCTCTGATTCTAACGAGGAAAGCACGTTATACGTG
+CTCGTCAAAGCAACCATAGTACGCGCCCTGTAGCGGCGCATTAAGCGCGGCGGGTGTGGTGGTTACGCGCAGCGTGACCGCTACACTTGCCAGCGCCCT
+AGCGCCCGCTCCTTTCGCTTTC
 ```
 
 ![](images/assign_DNA_dialog.png)
@@ -437,8 +514,14 @@ Finally, check the box "show DNA":
 
 ![](images/show_dna.png)
 
-The performance of scadnano can suffer when a large design displays its full DNA sequence, so normally this box will be unchecked. But when checked, we can inspect the entire DNA sequence of both the scaffold and the staples.
+When a large design displays its full DNA sequence, it can be slow to do things like zooming in and out, so normally it's a good idea to leave this box unchecked. But when checked, we can inspect the entire DNA sequence of both the scaffold and the staples.
 
 And there we have it, the completed design:
 
 ![](images/full_design.png)
+
+## Exporting DNA sequences
+
+Finally, to create a text file or Excel spreadsheet containing the staple sequences, click the button "Export DNA". A few default options are available. 
+
+The Python scripting library gives more control than the web interface. Currently, some default options are available for both the web interface and the scripting library for making files that can be uploaded to the web site of the synthesis company IDT. In the future, scadnano will support export formats for other biotech companies.
